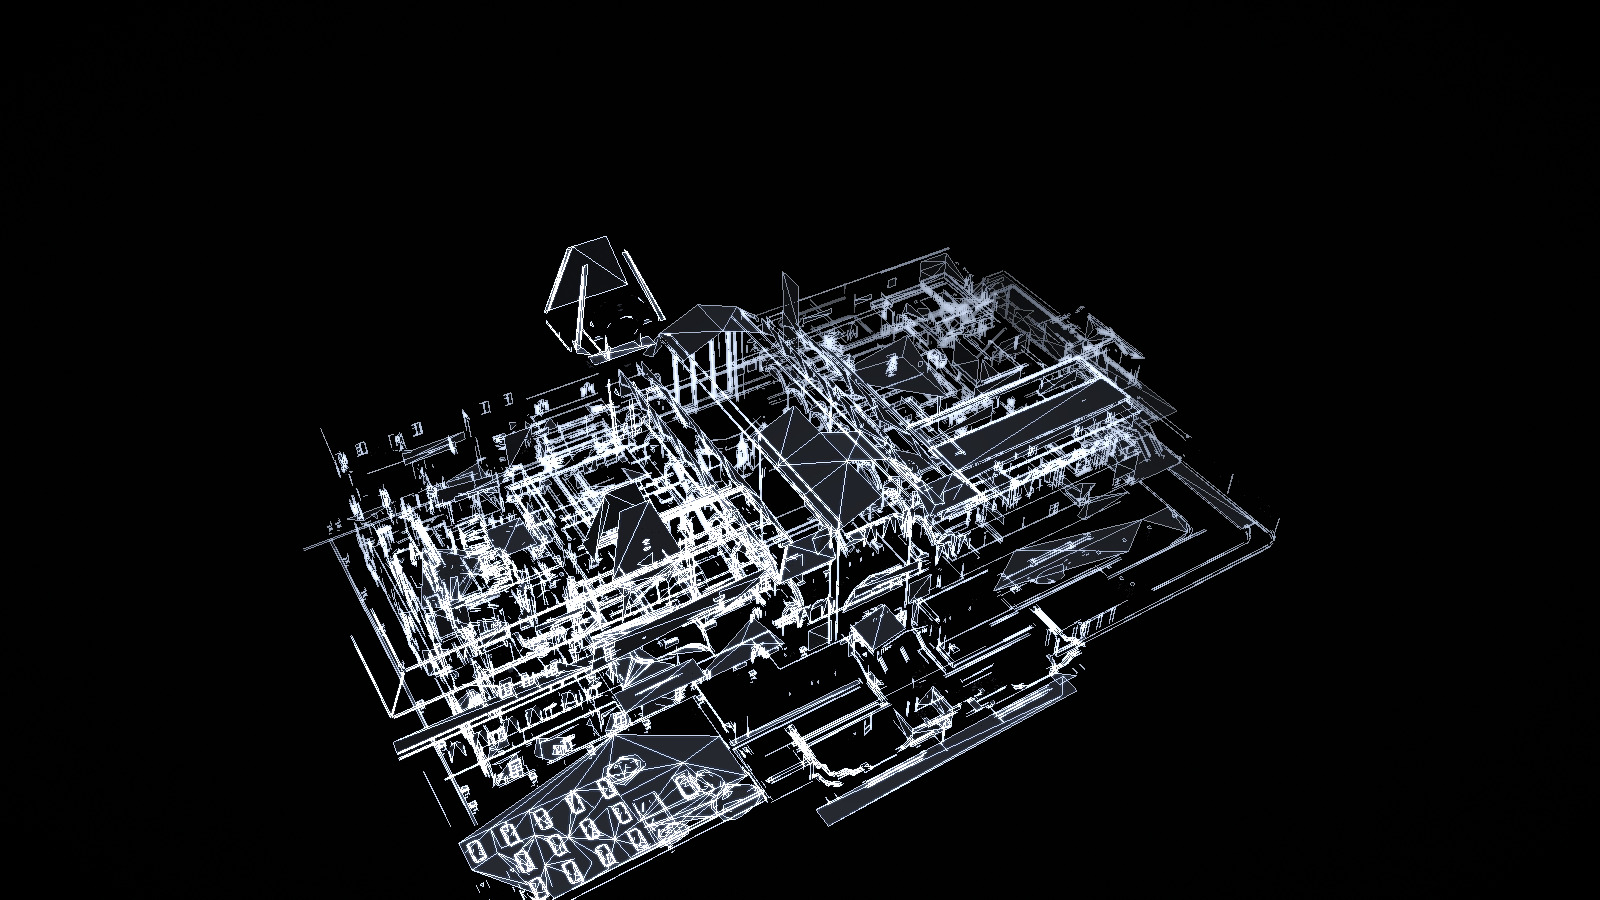
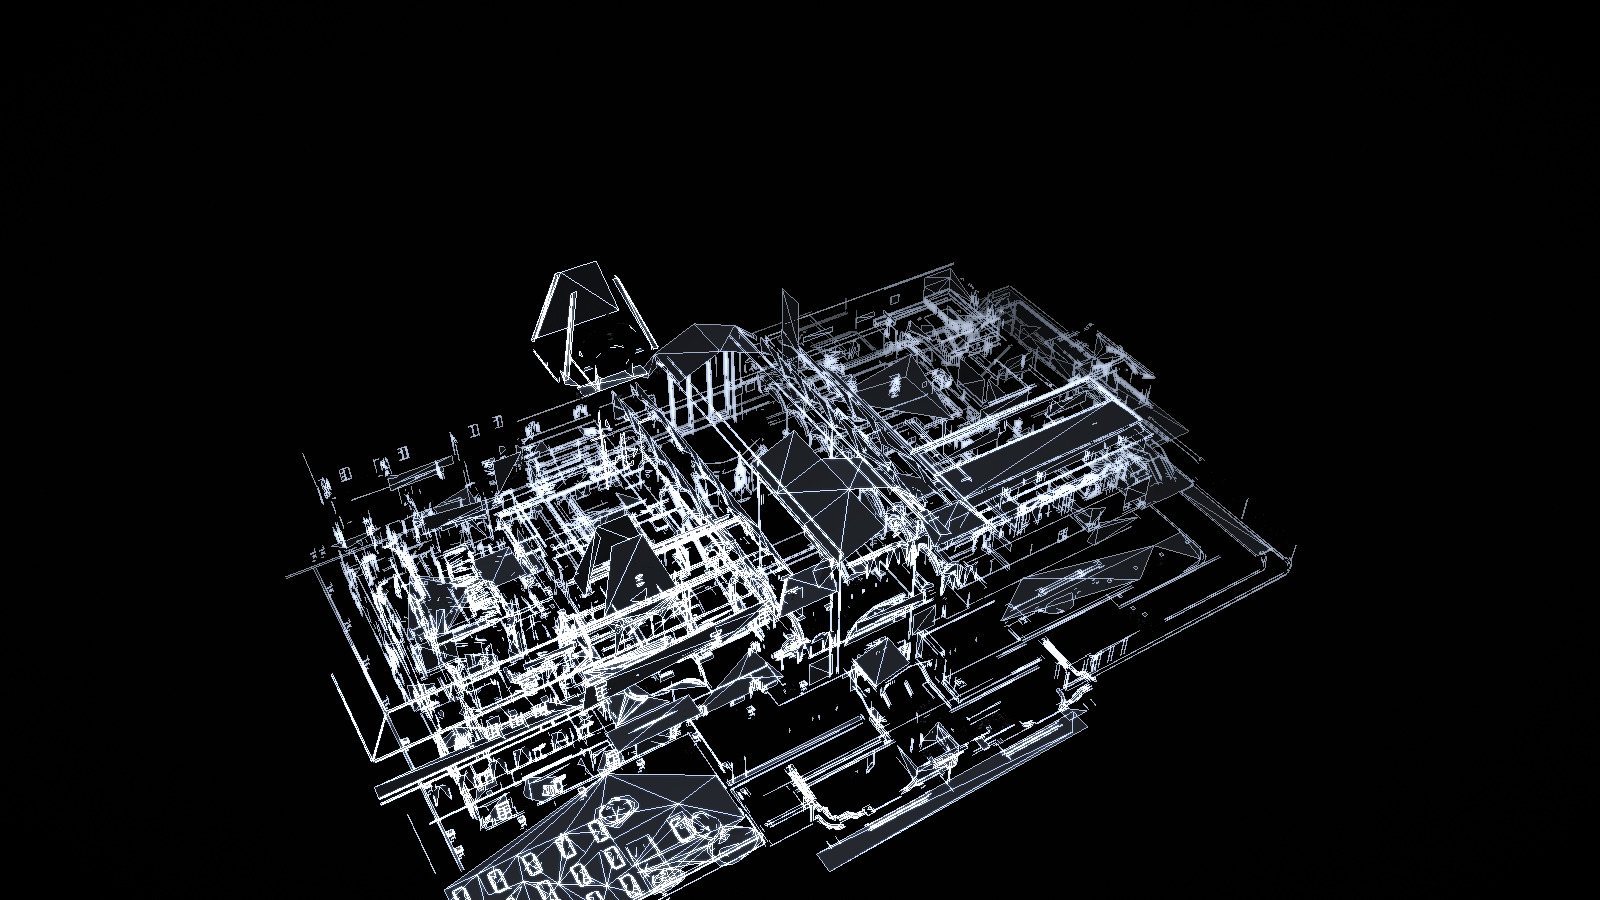
Tighten the default RPD camera framing
Fit the map closer to the reference zoom level and centre it vertically
on the playable floors rather than the clock tower.

Changed region(s): [[0.1875, 0.28, 0.8125, 1.0]]

diff --git a/native/main.c b/native/main.c
@@ -510,9 +510,9 @@ static void reset_camera(void) {
     state.camera.yaw = -0.55f;
     state.camera.pitch = 0.72f;
 
-    state.camera.target[1] = mn[1] + 0.28f * (mx[1] - mn[1]);
+    state.camera.target[1] = mn[1] + 0.34f * (mx[1] - mn[1]);
     int w = sapp_width() > 0 ? sapp_width() : 1600;
-    state.camera.distance = 140.0f * fmaxf(1.0f, 900.0f / (float)w);
+    state.camera.distance = 133.0f * fmaxf(1.0f, 900.0f / (float)w);
 }
 
 static void frame(void) {
